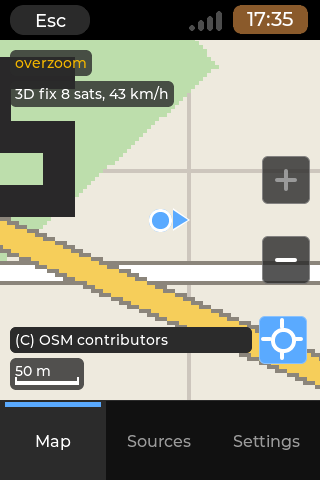
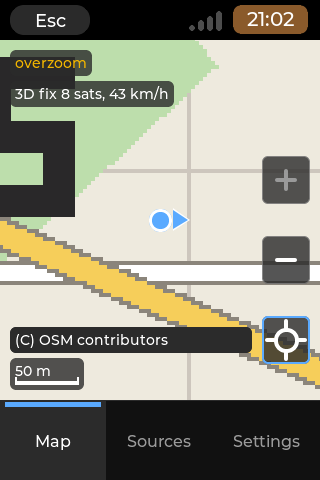
deck-atlas: the follow button is a third zoom button
It was a touch-square-centred plate that missed the engine's plates by 2 px (the engine's touch squares are cut by the
widget edge, so their centre is not the plate's centre), filled bright blue when on, and put one pitch below with a
lift that made its gap differ. Now the plate is rebuilt from the engine's layout rules (right edge = widget edge less
margin, top = touch top + half the difference), has the engine's size, radius, 80 % 2B2B2B plate, 30 % white ring,
crosshair stroke and pressed shade. Follow on = the same plate with a 2 px accent ring; off by default (only G, Home
or a tap turn it on). Placement: below the zoom buttons, else above, else left of zoom-out, always at the zoom
buttons' gap (no lifting any more). The touch square stays TARGET.

Tests: scenes x1/x15/x2-gps-buttons (three sizes, scales 1x/1.5x/2x) and tests/tools/check_follow_shots.py, which
measures size, column/row and gap of the three plates in the shots. Screenshots 12-16, 18, 20 regenerated.

Claude-Session: https://claude.ai/code/session_01DZirtLRRFpxSjax5Qp5ZSW

Changed region(s): [[0.8125, 0.6562, 0.9688, 0.7812], [0.7812, 0.0, 0.9375, 0.0625]]

diff --git a/apps/deck-atlas/src/ui/atlas_gps.cpp b/apps/deck-atlas/src/ui/atlas_gps.cpp
@@ -223,36 +223,50 @@ void AtlasApp::gps_layout()
         return;
     }
     const atlas::MapMetrics mm = atlas::map_metrics(overlay_input());
-    const double cx = (zo.x1 + zo.x2) / 2.0;
-    const double cy_in = (zi.y1 + zi.y2) / 2.0, cy_out = (zo.y1 + zo.y2) / 2.0;
-    const double pitch = cy_out - cy_in;
-    const int plate = std::min(mm.plate, static_cast<int>(zo.x2 - zo.x1 + 1));
-    /* one pitch below the zoom-out button, like the zoom pair; lifted when the credit's row at the bottom right (beside
-     * the scale bar) is in the way (1 px clear of it), never closer to the zoom-out plate than 2 px; when even that does not fit, above the
-     * zoom-in button (the engine's own locate button goes there) */
-    double cy = cy_out + pitch;
-    double limit = box.y2 - mm.margin - plate / 2.0;
-    if (attr_row_top_ >= 0) limit = std::min(limit, box.y1 + attr_row_top_ - 1 - plate / 2.0);
-    cy = std::min(cy, limit);
-    const double min_below = cy_out + plate + 2.0;
+    /* the engine's plates, rebuilt from its layout rules (cp0_map_layout): the right edge of the column is the widget's
+     * edge less the margin (the touch squares may be cut by the widget's edge, so their centre is not the plate's), the
+     * top of a plate is its touch square's top plus half the difference; the pitch is the distance of two plates */
+    lv_area_t mapa;
+    lv_obj_get_coords(map_, &mapa);
+    const int plate = mm.plate;
+    const int zi_th = zi.y2 - zi.y1 + 1, zo_th = zo.y2 - zo.y1 + 1;
+    const int top_in = zi.y1 + zi_th / 2 - plate / 2, top_out = zo.y1 + zo_th / 2 - plate / 2;
+    const int pitch = top_out - top_in;
+    const int gap = pitch - plate;
+    const int col_x = mapa.x2 + 1 - mm.margin - plate;
+    /* one pitch below the zoom-out button, like the zoom pair (the same gap as between + and -); when that does not
+     * fit above the bottom margin and the credit's row at the bottom right, above the zoom-in button (the engine's own
+     * locate button goes there); failing that, beside the zoom-out button on its left (the only place left that touches
+     * neither the credit, the scale bar nor the other buttons), the same gap again */
+    int px = col_x, py = top_out + pitch;
     bool side = false;
-    if (cy < min_below) {
-        /* no room below (a short map with the credit in the bottom row at the right: 480x320 has a map 200 px high): above
-         * the zoom-in button, clear of the engine's top row of messages; failing that, beside the zoom-out button on its
-         * left (the only place left that touches neither the credit, the scale bar nor the other buttons) */
-        const double above = cy_in - std::max(pitch, plate + 2.0);
-        const double top_min = box.y1 + mm.margin + mm.row_h + 2.0 + plate / 2.0;
-        if (above >= top_min) {
-            cy = above;
+    int limit = box.y2 + 1 - mm.margin;
+    if (attr_row_top_ >= 0) limit = std::min(limit, box.y1 + attr_row_top_ - 1);
+    if (py + plate > limit) {
+        const int above = top_in - pitch;
+        if (above >= box.y1 + mm.margin + mm.row_h + 2) {
+            py = above;
         } else {
+            px = col_x - gap - plate;
+            py = top_out;
             side = true;
-            cy = cy_out;
         }
     }
-    const int x = (side ? zo.x1 - target_ : static_cast<int>(std::lround(cx - target_ / 2.0))) - box.x1;
-    const int y = static_cast<int>(std::lround(cy - target_ / 2.0)) - box.y1;
-    if (lv_obj_get_x(follow_btn_) != x || lv_obj_get_y(follow_btn_) != y) lv_obj_set_pos(follow_btn_, x, y);
+    /* the touch square (TARGET, as every control of the app) centred on the plate; beside the zoom-out button it stops at
+     * that button's own touch square, the plate still inside it */
+    const int touch = target_;
+    int ox = px + plate / 2 - touch / 2;
+    const int oy = py + plate / 2 - touch / 2;
+    if (side && ox + touch > zo.x1 && zo.x1 - touch <= px && px + plate <= zo.x1) ox = zo.x1 - touch;
+    follow_plate_ = plate;
+    follow_dx_ = px - ox;
+    follow_dy_ = py - oy;
+    if (lv_obj_get_width(follow_btn_) != touch || lv_obj_get_height(follow_btn_) != touch)
+        lv_obj_set_size(follow_btn_, touch, touch);
+    if (lv_obj_get_x(follow_btn_) != ox - box.x1 || lv_obj_get_y(follow_btn_) != oy - box.y1)
+        lv_obj_set_pos(follow_btn_, ox - box.x1, oy - box.y1);
     lv_obj_remove_flag(follow_btn_, LV_OBJ_FLAG_HIDDEN);
+    lv_obj_invalidate(follow_btn_);
 }
 
 void AtlasApp::gps_show_overlays()
@@ -371,22 +385,21 @@ void AtlasApp::follow_draw_cb(lv_event_t *e)
     }
 }
 
+/* A third zoom button: the engine's own draw_button (cp0_map_widget.c) for its locate control, plate, ring and crosshair
+ * the same, only the on state is added: a 2 px ring in the accent blue round the plate. */
 void AtlasApp::draw_follow_button(lv_layer_t *layer, const lv_area_t &o)
 {
-    const atlas::MapMetrics mm = atlas::map_metrics(overlay_input());
-    const int plate = std::min(mm.plate, static_cast<int>(o.x2 - o.x1 + 1));
-    const double cx = (o.x1 + o.x2) / 2.0, cy = (o.y1 + o.y2) / 2.0;
+    const int p = follow_plate_ > 0 ? follow_plate_ : atlas::map_metrics(overlay_input()).plate;
     const int radius = cp0_ui_metrics_get()->tok[CP0_TOK_RADIUS_S];
-    const lv_area_t a = {static_cast<int>(std::lround(cx - plate / 2.0)), static_cast<int>(std::lround(cy - plate / 2.0)),
-                         static_cast<int>(std::lround(cx - plate / 2.0)) + plate - 1,
-                         static_cast<int>(std::lround(cy - plate / 2.0)) + plate - 1};
-    const bool on = follow_.on();
+    const lv_area_t a = {o.x1 + follow_dx_, o.y1 + follow_dy_, o.x1 + follow_dx_ + p - 1, o.y1 + follow_dy_ + p - 1};
+    const int cx = a.x1 + p / 2, cy = a.y1 + p / 2;
     const bool pressed = lv_obj_has_state(follow_btn_, LV_STATE_PRESSED);
-    fill(layer, a, on || pressed ? pal::kAccent : kPlateRgb, on ? LV_OPA_COVER : LV_OPA_80, radius);
+    fill(layer, a, pressed ? pal::kAccent : kPlateRgb, LV_OPA_80, radius);
     ring(layer, a, pal::kText, LV_OPA_30, 1, radius);
+    if (follow_.on()) ring(layer, a, pal::kAccent, LV_OPA_COVER, 2, radius);
     /* the crosshair of the engine's own locate button: a ring and four ticks */
-    const int stroke = std::max(plate / 12, 2), len = plate * 2 / 5, rr = plate / 4;
-    const lv_area_t ca = square(cx, cy, rr);
+    const int stroke = std::max(p / 12, 2), len = p * 2 / 5, rr = p / 4;
+    const lv_area_t ca = {cx - rr, cy - rr, cx + rr, cy + rr};
     ring(layer, ca, pal::kText, LV_OPA_COVER, stroke, LV_RADIUS_CIRCLE);
     line(layer, cx - len, cy, cx - rr, cy, pal::kText, stroke);
     line(layer, cx + rr, cy, cx + len, cy, pal::kText, stroke);

diff --git a/apps/deck-atlas/tests/tools/check_follow_shots.py b/apps/deck-atlas/tests/tools/check_follow_shots.py
@@ -1,0 +1,62 @@
+#!/usr/bin/env python3
+"""Measures the follow button against the engine's zoom buttons in the shots of the x*-gps-buttons scenes.
+
+    python3 check_follow_shots.py <headless out dir>      (needs Pillow, numpy, scipy)
+
+In every follow-off shot the three plates (dark rounded squares in the right 45 % of the screen) must have the same size;
+the follow plate is in the zoom buttons' column below them, or in the zoom-out button's row on its left (no room below),
+at the same gap as between + and -. Exit status 1 on any difference."""
+import glob, os, sys
+import numpy as np
+from PIL import Image
+from scipy import ndimage
+
+
+def plates(path):
+    im = np.array(Image.open(path).convert("RGB")).astype(int)
+    h, w, _ = im.shape
+    lum = im.sum(2) / 3
+    m = np.zeros(lum.shape, bool)
+    x0 = int(w * 0.55)
+    m[:, x0:] = lum[:, x0:] <= 95
+    m = ndimage.binary_fill_holes(ndimage.binary_closing(m, iterations=2))
+    out = []
+    for s in ndimage.find_objects(ndimage.label(m)[0]):
+        hh, ww = s[0].stop - s[0].start, s[1].stop - s[1].start
+        if 20 <= ww <= 120 and abs(hh - ww) <= 3:
+            out.append((s[1].start, s[0].start, ww, hh))
+    return sorted(out)
+
+
+def main(root):
+    bad = 0
+    shots = sorted(glob.glob(os.path.join(root, "x*-gps-buttons", "*", "follow-off.png")))
+    for p in shots:
+        b = plates(p)
+        name = "/".join(p.replace("\\", "/").split("/")[-3:-1])
+        if len(b) != 3 or len({(w, h) for _, _, w, h in b}) != 1:
+            print("FAIL", name, "plates", b)
+            bad += 1
+            continue
+        if len({q[0] for q in b}) == 1:
+            zi, zo, f = sorted(b, key=lambda q: q[1])
+        else:
+            zoom = sorted([q for q in b if q[0] == max(x for x, _, _, _ in b)], key=lambda q: q[1])
+            zi, zo = zoom
+            f = [q for q in b if q not in zoom][0]
+        size = zi[2]
+        pitch = zo[1] - zi[1]
+        if f[0] == zo[0]:  # below
+            ok = f[1] - zo[1] == pitch
+        else:  # left of the zoom-out button, same row, the same gap
+            ok = f[1] == zo[1] and zo[0] - f[0] - size == pitch - size
+        print("PASS" if ok else "FAIL", name, "plate", size, "pitch", pitch, "follow", f[:2], "zoom", zi[:2], zo[:2])
+        bad += not ok
+    if not shots:
+        print("no shots under", root)
+        bad = 1
+    return 1 if bad else 0
+
+
+if __name__ == "__main__":
+    sys.exit(main(sys.argv[1]))

diff --git a/apps/deck-atlas/src/ui/atlas_app.hpp b/apps/deck-atlas/src/ui/atlas_app.hpp
@@ -223,6 +223,7 @@ private:
     std::string gps_chip_text_, gps_source_;
     std::vector<std::string> gps_present_;   /* the serial ports present, for the Port row */
     lv_obj_t *gps_layer_ = nullptr, *gps_chip_ = nullptr, *gps_chip_label_ = nullptr, *follow_btn_ = nullptr;
+    int follow_plate_ = 0, follow_dx_ = 0, follow_dy_ = 0;   /* the follow plate's size and offset inside its touch square */
     std::int64_t gps_ports_at_ = 0;
     lv_obj_t *tabbar_ = nullptr;
     struct Cell {
